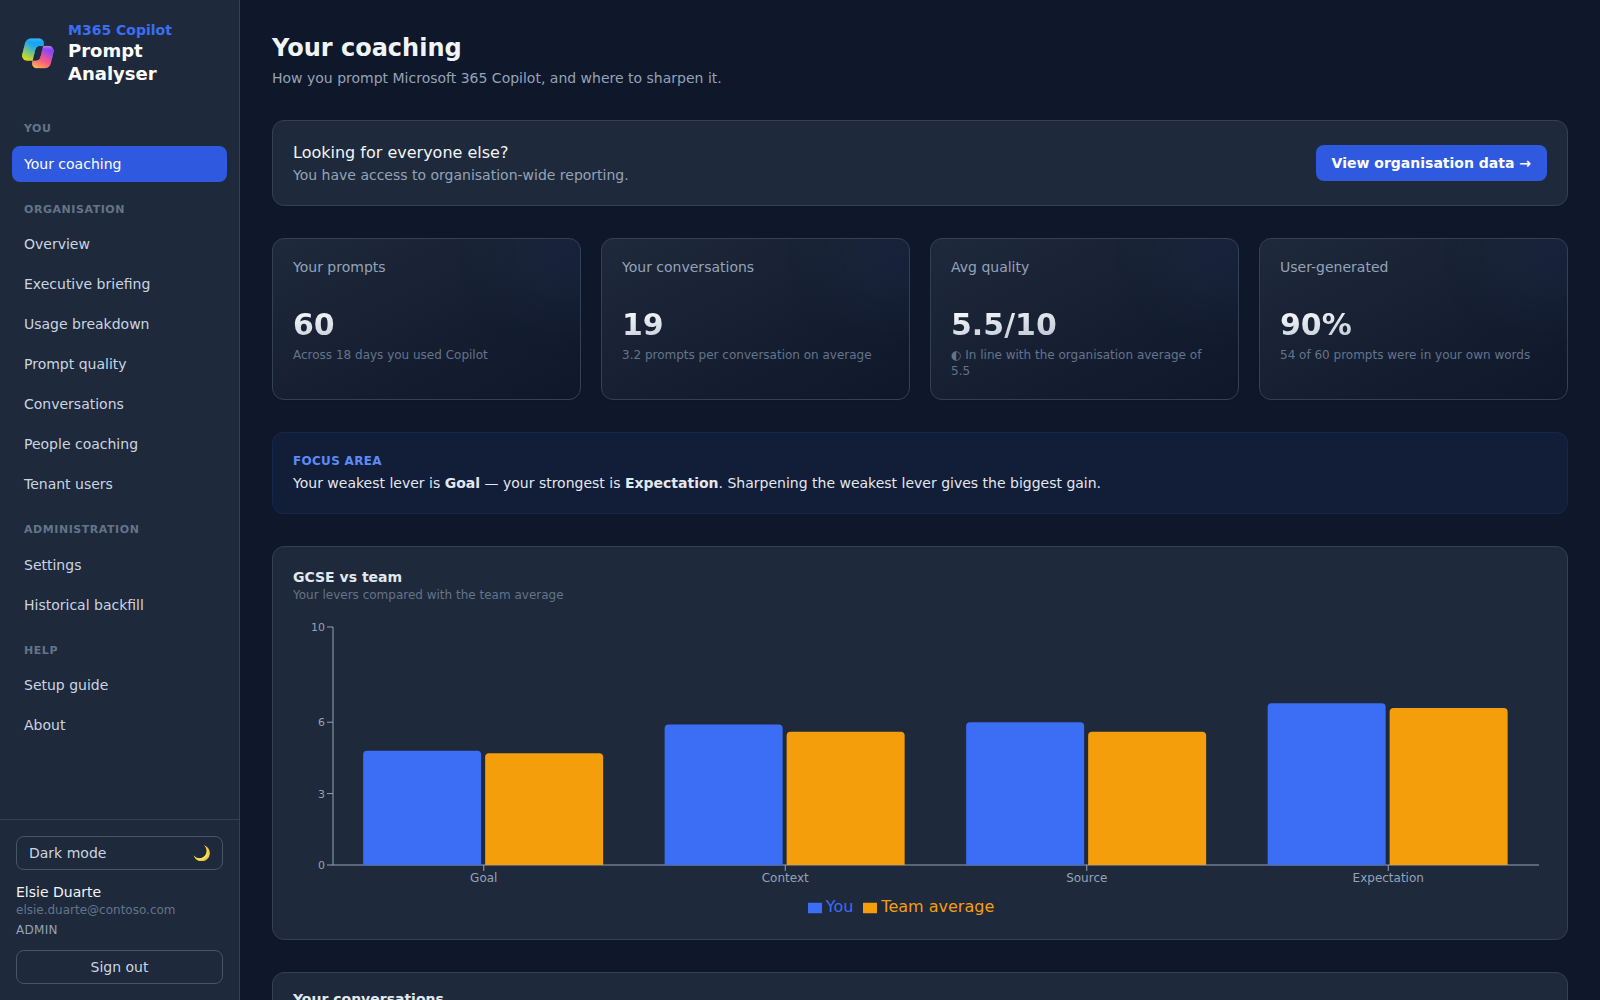
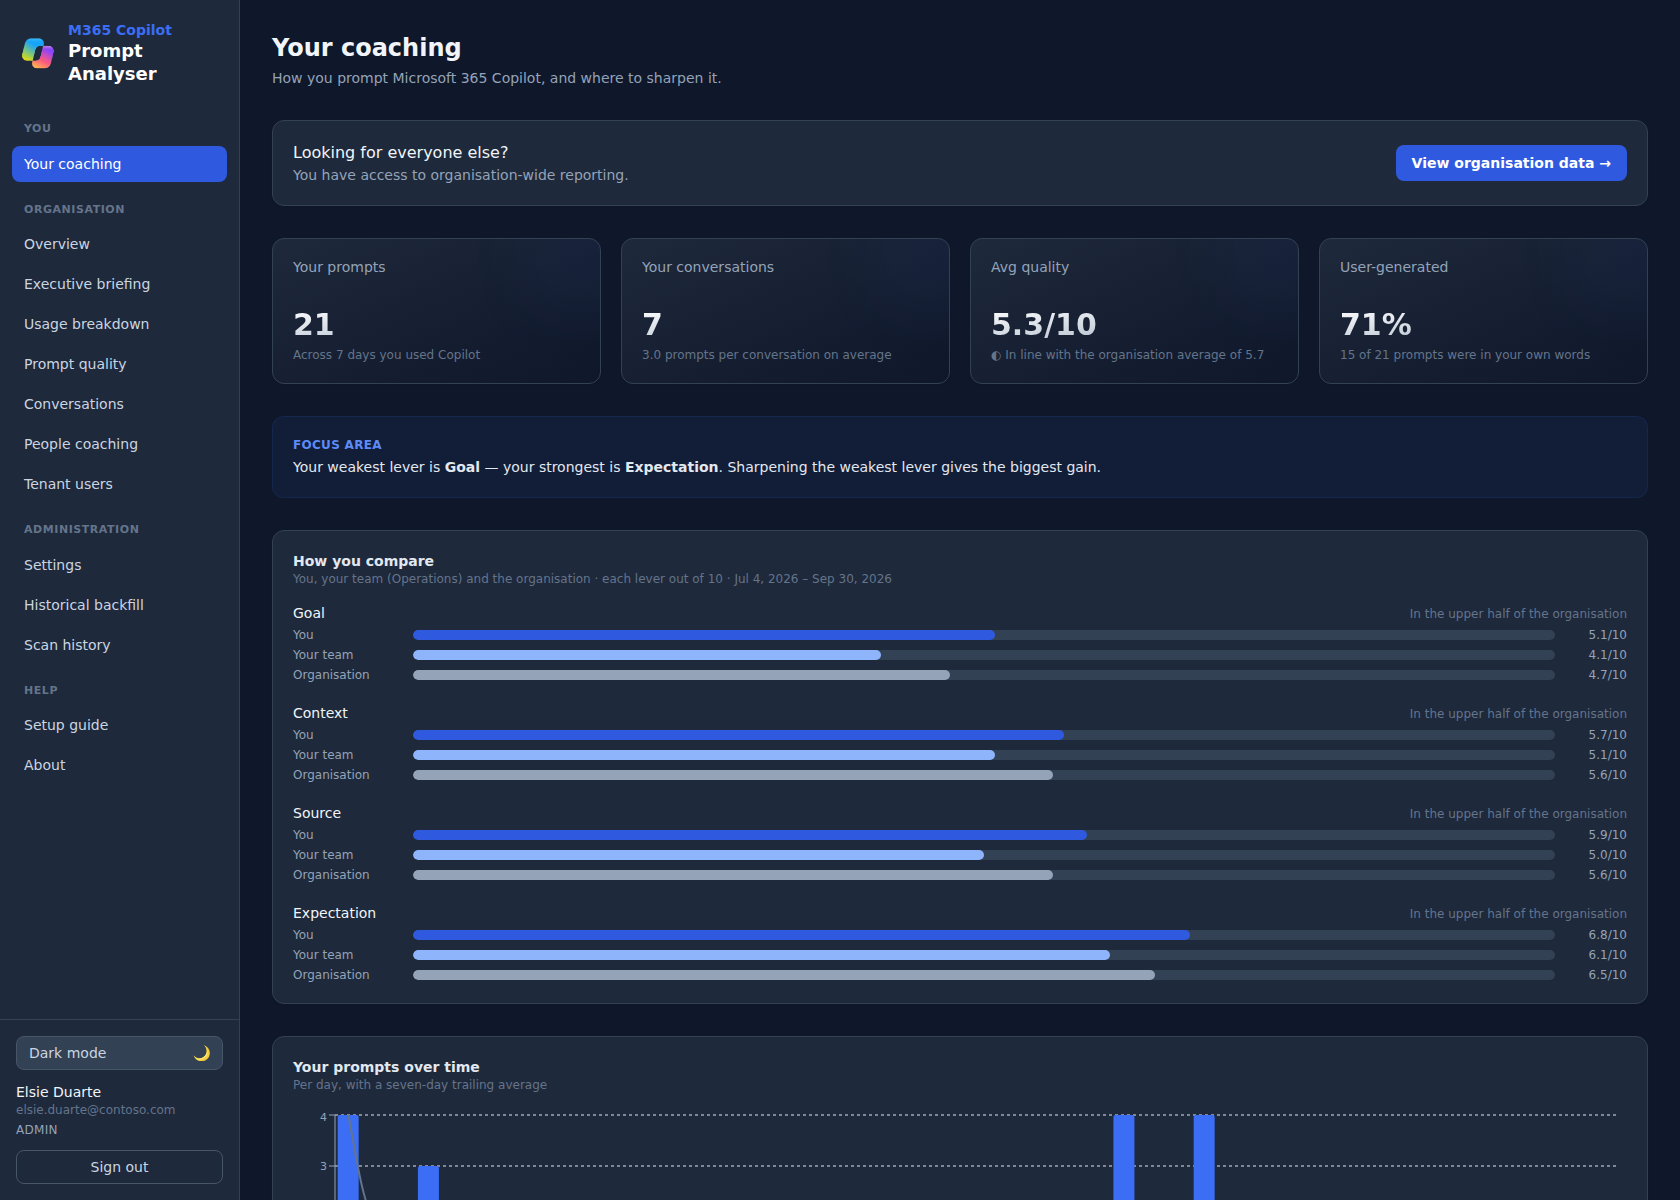
Refresh the screenshots for the pages this pass added and rebuilt
Your coaching replaces the old 'GCSE vs team' chart — which drew its second
bar from the whole tenant while calling it a team average — with the corrected
three-series comparison, and gains the daily prompt timeline. Scan history is
new; its reference was committed pointing at a file that did not exist, so this
also closes that broken image.

Captured from throwaway local stacks on HA-IC9 running the published images —
byte-identical digests to what is deployed, checked rather than assumed — with
seeded demo data and no tenant credentials configured anywhere, so no Graph
call was possible and no real tenant or deployment was touched. 1680x1200,
light and dark, per docs/screenshots/README.md.

Worth recording, because it nearly shipped the wrong pictures: the host had a
cached :latest from earlier in the day, and a plain compose up reused it rather
than pulling. Three of the four rigs came up on the previous build, which is
only visible in details like a percentile reading "38th percentile" where the
shipped code shows a band. Caught by diffing each rig's image digest against
the running production container; the shots here are from a forced re-pull.

diff --git a/README.md b/README.md
@@ -75,10 +75,7 @@ Every collection and analysis run, newest first — what kind it was, when it
 started, how long it took, what it wrote, and whether it succeeded, with a failed
 run showing its error. Status is a shape plus a word (● ◐ ○), never colour alone.
 
-<!-- Screenshot pending: docs/screenshots/scan-history.png (light and dark).
-     Capture per docs/screenshots/README.md and restore the image line below.
 ![Scan history](docs/screenshots/scan-history.png)
--->
 
 ### Usage breakdown & dark mode
 Per-app and per-intent volume and average quality, category mix, and GCSE-by-intent.
@@ -87,8 +84,7 @@ Every page supports a light and dark theme.
 ![Usage breakdown](docs/screenshots/usage-breakdown.png)
 ![Overview in dark mode](docs/screenshots/executive-summary-dark.png)
 
-Every screenshot here exists in both themes, apart from Scan history which is
-still to be captured; see
+Every screenshot here exists in both themes; see
 [`docs/screenshots/README.md`](docs/screenshots/README.md) for how they are produced.
 
 
